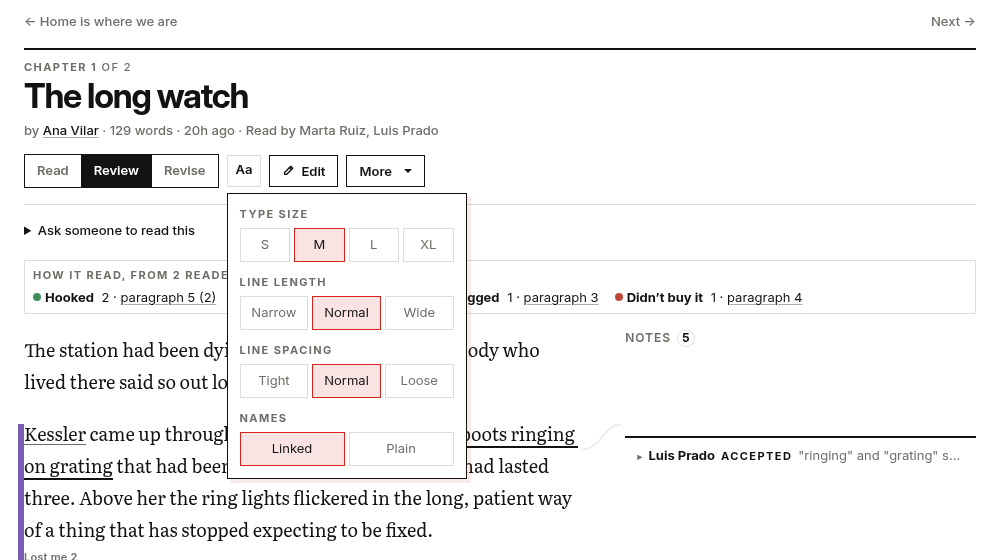
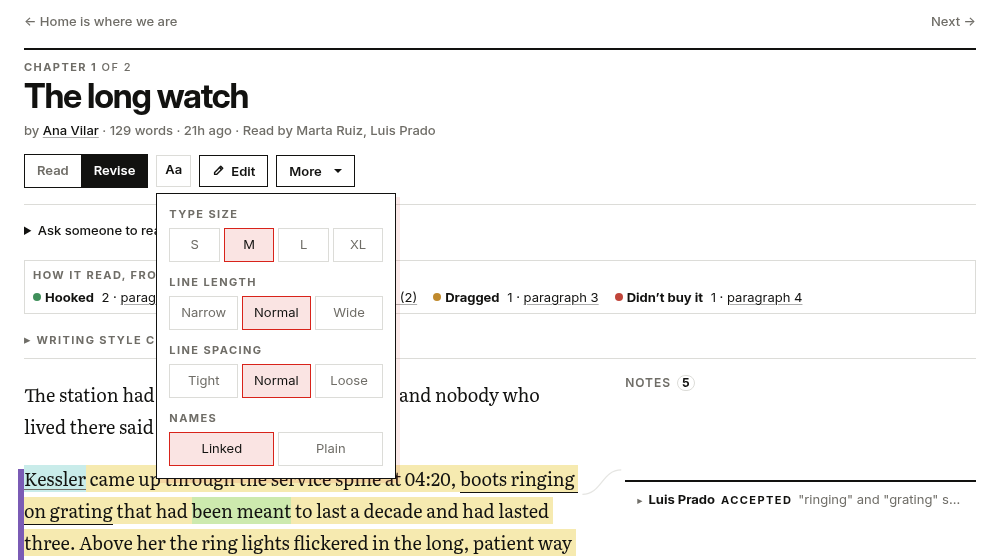
Read, or the other one
The chapter page's switch has two sides: Read, and Review for a reader
or Revise for the chapter's author (Revise now includes everything Review
did). The choice is remembered as notes on/off, so an author's Revise is
Review on somebody else's chapter. Help, changelog and the switch figure.

diff --git a/public/js/reading.js b/public/js/reading.js
@@ -34,12 +34,14 @@
   // Somebody who has asked, on their account page, for chapters to open
   // ready to read gets that every time, whatever this browser remembers.
   const readFirst = bar.dataset.readFirst === '1';
-  // Three ways to have the page, one switch: Read (the story alone),
-  // Review (the story and the notes) and, for its author, Revise (the
-  // notes and the writing checks on the text as well).
+  // Two ways to have the page, one switch: Read, the story alone, and the
+  // other one -- Review (the story and the notes) for a reader, Revise (the
+  // notes and the writing checks as well) for its author. A choice stored
+  // as the one means the other on a page that offers the other.
   const offered = Array.from(bar.querySelectorAll('[data-mode]')).map((b) => /** @type {HTMLElement} */ (b).dataset.mode);
-  let mode = readFirst ? 'read' : (store.get(MODE_KEY, '') || (hasComments ? 'review' : 'read'));
-  if (offered.indexOf(mode) === -1) mode = mode === 'revise' ? 'review' : 'read';
+  const working = offered.indexOf('revise') >= 0 ? 'revise' : 'review';
+  let mode = readFirst ? 'read' : (store.get(MODE_KEY, '') || (hasComments ? working : 'read'));
+  if (mode !== 'read') mode = working;
 
   function applyMode() {
     main.dataset.reading = mode;
@@ -60,7 +62,9 @@
     const btn = /** @type {HTMLElement|null} */ (/** @type {Element} */ (ev.target).closest('[data-mode]'));
     if (!btn) return;
     mode = btn.dataset.mode;
-    store.set(MODE_KEY, mode);
+    // Remembered as "notes on" or "off", so an author's Revise is a
+    // reader's Review on somebody else's chapter.
+    store.set(MODE_KEY, mode === 'read' ? 'read' : 'review');
     applyMode();
   });
 

diff --git a/views/chapter.js b/views/chapter.js
@@ -476,8 +476,9 @@ function chapterPage({ user, chapter, versions, currentVersion, comments, isChap
         <div class="version-actions" id="reading-controls" data-has-comments="${comments.length ? '1' : '0'}" data-read-first="${user.read_first ? '1' : '0'}">
           <div class="mode-switch" role="group" aria-label="How to view this chapter">
             <button type="button" data-mode="read" aria-pressed="false" title="The story alone">Read</button>
-            <button type="button" data-mode="review" aria-pressed="false" title="The story and the notes">Review</button>
-            ${isChapterAuthor ? '<button type="button" data-mode="revise" aria-pressed="false" title="The notes, and the writing checks marked in the text">Revise</button>' : ''}
+            ${isChapterAuthor
+    ? '<button type="button" data-mode="revise" aria-pressed="false" title="The notes, and the writing checks marked in the text">Revise</button>'
+    : '<button type="button" data-mode="review" aria-pressed="false" title="The story and the notes">Review</button>'}
           </div>
           <details class="reading-prefs" aria-label="Reading settings">
             <summary aria-label="Reading settings: type size, line length, spacing">Aa</summary>

diff --git a/docs/help/15-screen-readers.md b/docs/help/15-screen-readers.md
@@ -23,7 +23,7 @@ At the end of a chapter the next one is a single link, with its title. The **lef
 
 In **Review** mode, a passage somebody has left a note on is read as highlighted. The notes themselves are in a region called **Notes on this chapter**, and each starts with a heading that says whose it is, what kind, where it stands and what it is about -- *Note by Luis, question, pending, on "four hundred days"* -- so the headings key walks you from note to note. Each note has a **Go to the passage** link back to the words.
 
-To say how a paragraph read -- Hooked, Lost me, Dragged, Didn't buy it -- select a few of its words and press **R**: a toolbar of four switches opens, each saying whether it is on; Escape closes it and puts you back. To leave a note, select the words with Shift and the arrow keys and press **C**. Notes are left in Review (or Revise); Read is the story alone and offers nothing on a selection. Accept, reject, reply and retract happen in place: the page does not reload, your place is kept and one sentence says what happened.
+To say how a paragraph read -- Hooked, Lost me, Dragged, Didn't buy it -- select a few of its words and press **R**: a toolbar of four switches opens, each saying whether it is on; Escape closes it and puts you back. To leave a note, select the words with Shift and the arrow keys and press **C**. Notes are left in Review (Revise, on your own chapter); Read is the story alone and offers nothing on a selection. Accept, reject, reply and retract happen in place: the page does not reload, your place is kept and one sentence says what happened.
 
 ## Writing
 
@@ -33,6 +33,6 @@ The chapter is written in one box, in Markdown: the formatting is part of the te
 
 Other keys: **Ctrl+B** and **Ctrl+I** (Cmd on a Mac) for bold and italic, **Ctrl+Enter** for a scene break, **Escape** to leave Focus or close a panel.
 
-The [writing checks](/help/writing-checks) are a panel beside the text, a region called **Writing checks**. It starts with the reading grade and the counts, and each kind of check is a button whose name is its count -- *4 adverbs. Aim for 1 or fewer.* -- and which says whether its marks are shown (pressed) or hidden. In the editor, **Writing style checks** at the top of the panel is a switch, on or off; on the chapter page the panel is there in Revise, the third position of the Read / Review / Revise switch. **Checks as a list**, above the text, turns every mark into a list: how many of each first, then every one in order, each a button that selects its words in the text.
+The [writing checks](/help/writing-checks) are a panel beside the text, a region called **Writing checks**. It starts with the reading grade and the counts, and each kind of check is a button whose name is its count -- *4 adverbs. Aim for 1 or fewer.* -- and which says whether its marks are shown (pressed) or hidden. In the editor, **Writing style checks** at the top of the panel is a switch, on or off; on the chapter page the panel is there in Revise, the author's other side of the Read switch. **Checks as a list**, above the text, turns every mark into a list: how many of each first, then every one in order, each a button that selects its words in the text.
 
 **Scenes & snapshots** opens a panel beside the editor and moves the focus into it; Escape closes it and puts you back where you were.

diff --git a/docs/help/10-reading-and-reviewing.md b/docs/help/10-reading-and-reviewing.md
@@ -3,10 +3,10 @@
 How to read a chapter the way you would read a book, and how to leave the
 kind of note the author can actually act on.
 
-## Read, Review, Revise
+## Read or Review
 
 Under the chapter's title is one row of controls, and the first of them is
-the switch between the ways of having the page.
+a switch between two ways of having the page.
 
 **Read** gives you the chapter and nothing else: no notes, no highlights,
 no margin, and selecting words offers nothing -- it is just the story.
@@ -15,7 +15,7 @@ are underlined, the notes sit beside them, and selecting words lets you
 leave one. Nobody thinks well about a sentence while the sentence has
 three coloured underlines on it, so read it once first.
 
-On your own chapter there is a third: **Revise** is Review with the
+On your own chapter the second is **Revise** instead: the notes, and the
 [writing checks](/help/writing-checks) marked in the text as well.
 
 A chapter with notes opens in Review; one without opens in Read; and after

diff --git a/docs/CHANGELOG.md b/docs/CHANGELOG.md
@@ -23,7 +23,7 @@ here is missing on the site, it has not been restarted yet.
 
 ### Reading and notes
 
-- **Read, Review, Revise.** One switch under the title. Read is the story alone; Review is the story and the notes; Revise, on your own chapter, adds the writing checks.
+- **Read or Review.** One switch of two under the title. Read is the story alone; Review is the story and the notes. On your own chapter the second is Revise: the notes and the writing checks.
 - **How it read.** In Review, click a paragraph -- or select a few words and press R -- and say how it read: **Hooked**, **Lost me**, **Dragged** or **Didn't buy it**. The author gets them summed up above the text and marked in the margin.
 - **Pick up where you stopped**, on any device; forgotten once you reach the end.
 - **Name somebody in a note** with @: it lands under *Replies and mentions* on their front page and in their feed.

diff --git a/docs/help/22-writing-checks.md b/docs/help/22-writing-checks.md
@@ -133,7 +133,7 @@ better for it.
 ## On the chapter page
 
 The author also has the same panel on the chapter page, folded into one
-line above the text: *Readability · Grade 5 · 18 flagged*. It is there in
-**Revise**, the third position of the switch under the title (Read,
-Review, Revise), which marks the text as the editor does; Read and Review
-leave the text alone. Open the line for the cards.
+line above the text: *Writing style checks · Grade 5 · 18 flagged*. It is
+there in **Revise**, the other side of the Read switch under the title,
+which marks the text as the editor does; Read leaves the text alone. Open
+the line for the cards.

diff --git a/docs/help/05-finding-your-way.md b/docs/help/05-finding-your-way.md
@@ -81,7 +81,7 @@ The chapter page is the page the site is for.
   **Next** chapter.
 - The title, with the chapter's place in the story above it (*Chapter 1
   of 2*), then who wrote it, how long it is and when.
-- One row of controls: **Read**, **Review** (and **Revise**, on your own
+- One row of controls: **Read** or **Review** (**Revise**, on your own
   chapter), **Aa** for how the text
   looks, **Edit** if it is yours, and **More** for downloads and archiving.
 - The text, and -- in Review -- the notes beside it.

diff --git a/docs/help/90-questions.md b/docs/help/90-questions.md
@@ -5,7 +5,8 @@ Short answers to the things that come up, with a link to the longer one.
 ## Reading and notes
 
 **I opened a chapter and there are no notes, but I know there are some.**
-You are in **Read** mode. Press **Review**, under the title. If you want
+You are in **Read** mode. Press **Review** (**Revise**, on your own
+chapter), under the title. If you want
 every chapter to open in Read on purpose, that is a setting on your
 [account page](/help/your-account).
 
